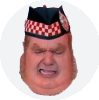
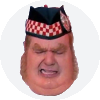
Add hover effect Add winner videos and reset button

diff --git a/index.html b/index.html
@@ -17,72 +17,81 @@
     <title>Old Fat Bastard and the Baby Faces</title>
   </head>
   <body>
-    <div class="container">
+    <div class="container-fluid">
       <div class="row">
         <div class="col-sm-12">
-          <div class="center-block header">
-            <canvas class="col-1 header-token" id="h1"></canvas>
-            <canvas class="col-2 header-token" id="h2"></canvas>
-            <canvas class="col-3 header-token" id="h3"></canvas>
-            <canvas class="col-4 header-token" id="h4"></canvas>
-            <canvas class="col-5 header-token" id="h5"></canvas>
-            <canvas class="col-6 header-token" id="h6"></canvas>
-            <canvas class="col-7 header-token" id="h7"></canvas>
+          <div class="winner center-block">
+            <div class="winner-video"></div>
           </div>
-          <div class="center-block board-wrapper">
-            <div class="board-row board-row1">
-              <canvas class="col-1" id="1"></canvas>
-              <canvas class="col-2" id="2"></canvas>
-              <canvas class="col-3" id="3"></canvas>
-              <canvas class="col-4" id="4"></canvas>
-              <canvas class="col-5" id="5"></canvas>
-              <canvas class="col-6" id="6"></canvas>
-              <canvas class="col-7" id="7"></canvas>
+          <div class="col-sm-1 reset-wrapper">
+            <div class="reset"><button class="btn btn-primary">New Game</button></div>
+            
+          </div>
+          <div class="col-sm-10">
+            <div class="center-block header">
+              <canvas class="col-1 header-token" id="h1"></canvas>
+              <canvas class="col-2 header-token" id="h2"></canvas>
+              <canvas class="col-3 header-token" id="h3"></canvas>
+              <canvas class="col-4 header-token" id="h4"></canvas>
+              <canvas class="col-5 header-token" id="h5"></canvas>
+              <canvas class="col-6 header-token" id="h6"></canvas>
+              <canvas class="col-7 header-token" id="h7"></canvas>
             </div>
-            <div class="board-row board-row2">
-              <canvas class="col-1" id="8"></canvas>
-              <canvas class="col-2" id="9"></canvas>
-              <canvas class="col-3" id="10"></canvas>
-              <canvas class="col-4" id="11"></canvas>
-              <canvas class="col-5" id="12"></canvas>
-              <canvas class="col-6" id="13"></canvas>
-              <canvas class="col-7" id="14"></canvas>
-            </div>
-            <div class="board-row board-row3">
-              <canvas class="col-1" id="15"></canvas>
-              <canvas class="col-2" id="16"></canvas>
-              <canvas class="col-3" id="17"></canvas>
-              <canvas class="col-4" id="18"></canvas>
-              <canvas class="col-5" id="19"></canvas>
-              <canvas class="col-6" id="20"></canvas>
-              <canvas class="col-7" id="21"></canvas>
-            </div>
-            <div class="board-row board-row4">
-              <canvas class="col-1" id="22"></canvas>
-              <canvas class="col-2" id="23"></canvas>
-              <canvas class="col-3" id="24"></canvas>
-              <canvas class="col-4" id="25"></canvas>
-              <canvas class="col-5" id="26"></canvas>
-              <canvas class="col-6" id="27"></canvas>
-              <canvas class="col-7" id="28"></canvas>
-            </div>
-            <div class="board-row board-row5">
-              <canvas class="col-1" id="29"></canvas>
-              <canvas class="col-2" id="30"></canvas>
-              <canvas class="col-3" id="31"></canvas>
-              <canvas class="col-4" id="32"></canvas>
-              <canvas class="col-5" id="33"></canvas>
-              <canvas class="col-6" id="34"></canvas>
-              <canvas class="col-7" id="35"></canvas>
-            </div>
-            <div class="board-row board-row6">
-              <canvas class="col-1 can-place" id="36"></canvas>
-              <canvas class="col-2 can-place" id="37"></canvas>
-              <canvas class="col-3 can-place" id="38"></canvas>
-              <canvas class="col-4 can-place" id="39"></canvas>
-              <canvas class="col-5 can-place" id="40"></canvas>
-              <canvas class="col-6 can-place" id="41"></canvas>
-              <canvas class="col-7 can-place" id="42"></canvas>
+            <div class="center-block board-wrapper">
+              <div class="board-row board-row1">
+                <canvas class="col-1" id="1"></canvas>
+                <canvas class="col-2" id="2"></canvas>
+                <canvas class="col-3" id="3"></canvas>
+                <canvas class="col-4" id="4"></canvas>
+                <canvas class="col-5" id="5"></canvas>
+                <canvas class="col-6" id="6"></canvas>
+                <canvas class="col-7" id="7"></canvas>
+              </div>
+              <div class="board-row board-row2">
+                <canvas class="col-1" id="8"></canvas>
+                <canvas class="col-2" id="9"></canvas>
+                <canvas class="col-3" id="10"></canvas>
+                <canvas class="col-4" id="11"></canvas>
+                <canvas class="col-5" id="12"></canvas>
+                <canvas class="col-6" id="13"></canvas>
+                <canvas class="col-7" id="14"></canvas>
+              </div>
+              <div class="board-row board-row3">
+                <canvas class="col-1" id="15"></canvas>
+                <canvas class="col-2" id="16"></canvas>
+                <canvas class="col-3" id="17"></canvas>
+                <canvas class="col-4" id="18"></canvas>
+                <canvas class="col-5" id="19"></canvas>
+                <canvas class="col-6" id="20"></canvas>
+                <canvas class="col-7" id="21"></canvas>
+              </div>
+              <div class="board-row board-row4">
+                <canvas class="col-1" id="22"></canvas>
+                <canvas class="col-2" id="23"></canvas>
+                <canvas class="col-3" id="24"></canvas>
+                <canvas class="col-4" id="25"></canvas>
+                <canvas class="col-5" id="26"></canvas>
+                <canvas class="col-6" id="27"></canvas>
+                <canvas class="col-7" id="28"></canvas>
+              </div>
+              <div class="board-row board-row5">
+                <canvas class="col-1" id="29"></canvas>
+                <canvas class="col-2" id="30"></canvas>
+                <canvas class="col-3" id="31"></canvas>
+                <canvas class="col-4" id="32"></canvas>
+                <canvas class="col-5" id="33"></canvas>
+                <canvas class="col-6" id="34"></canvas>
+                <canvas class="col-7" id="35"></canvas>
+              </div>
+              <div class="board-row board-row6">
+                <canvas class="col-1 can-place" id="36"></canvas>
+                <canvas class="col-2 can-place" id="37"></canvas>
+                <canvas class="col-3 can-place" id="38"></canvas>
+                <canvas class="col-4 can-place" id="39"></canvas>
+                <canvas class="col-5 can-place" id="40"></canvas>
+                <canvas class="col-6 can-place" id="41"></canvas>
+                <canvas class="col-7 can-place" id="42"></canvas>
+              </div>
             </div>
           </div>
         </div>

diff --git a/js/oldFatBastard.js b/js/oldFatBastard.js
@@ -2,15 +2,63 @@ var dropPiece = function(column) {
   var columnNumber = 'col-'+(column);
   console.log(columnNumber);
   if (player % 2) {
+    fatBastard();
     var position = $('.can-place.'+(columnNumber)).attr('id') - 7;
     $('.can-place.' + (columnNumber)).css('background-image', 'url(imgs/baby.png)').removeClass('can-place');
     $('#'+(position)).addClass('can-place')
     console.log($('#'+(position)));
   } else {
+    baby();
     var position = $('.can-place.'+(columnNumber)).attr('id') - 7;
     $('.can-place.' + (columnNumber)).css('background-image', 'url(imgs/fat-bastard.png)').removeClass('can-place');
     $('#'+(position)).addClass('can-place')
     console.log($('#'+(position)));
 
   }
+}
+
+var baby = function() {
+  $('.header-token').hover(function() {
+      $(this).css('background-image', 'url(imgs/baby.png)');
+    }, function() {
+      $(this).css('background', '#FFF');
+  }).click(function() {
+    $(this).css('background', '#FFF');
+  });
+}
+
+var fatBastard = function() {
+  $('.header-token').hover(function() {
+      $(this).css('background-image', 'url(imgs/fat-bastard.png)');
+    }, function() {
+      $(this).css('background', '#FFF');
+  }).click(function() {
+    $(this).css('background', '#FFF');
+  });
+}
+
+var fatBastardWins = function() {
+  $('.winner').prepend('<h1>Old Fat Bastard Wins!</h1>');
+  $('.winner').append('<iframe style="position: absolute; top: 175px; left: 20%;" width="853" height="480" src="http://www.youtube.com/embed/LXekH_8vXnM?rel=0&amp;controls=0&amp;showinfo=0&amp;autoplay=1;" frameborder="0" allowfullscreen></iframe>');
+  setTimeout(function() {
+    $('.winner').fadeOut('slow');
+    $('.board-wrapper').show();
+    $('.reset').show();
+  }, 10000);
+  setTimeout(function() {
+    $('.winner').find('iframe').remove();
+  }, 10000);
+}
+
+var babyWins = function() {
+  $('.winner').fadeIn('slow').prepend('<h1 class="baby">Baby Wins!</h1>');
+  $('.winner').append('<iframe style="position: absolute; top: 175px; left: 20%;" src="https://player.vimeo.com/video/158847086?title=0&byline=0&portrait=0&amp;autoplay=1;" width="853" height="479" frameborder="0" webkitallowfullscreen mozallowfullscreen allowfullscreen></iframe>');
+  setTimeout(function() {
+    $('.winner').fadeOut('slow');
+    $('.board-wrapper').show();
+    $('.reset').show();
+  }, 17000);
+  setTimeout(function() {
+    $('.winner').find('iframe').remove();
+  }, 17000);
 }

diff --git a/js/controller.js b/js/controller.js
@@ -10,12 +10,24 @@ var board = [
 
 player = 1
 
+// $('.button-color-2').hover(function() {
+// dosmth();
+// $(this).unbind('mouseenter mouseleave')
+// });
+
 $(document).ready(function(){
+
+  // baby(function() {
+  //   $(this).unbind('mouseenter mouseleave')
+  // })
+
+  $('.header-token').one('hover', baby());
 
   $('#h1').on('click', function(){
    dropPiece(1);
    addColor(0);
  })
+
   $('#h2').on('click', function(){
    dropPiece(2);
    addColor(1);
@@ -37,9 +49,13 @@ $(document).ready(function(){
    addColor(5);
  })
   $('#h7').on('click', function(){
-   dropPiece(7);
+   dropPiece(7, player);
    addColor(6);
  })
+
+  $('button').on('click', function() {
+    location.reload(true);
+  })
 
 })
 
@@ -57,16 +73,24 @@ var addColor = function(number) {
       console.log("column: " + number);
       console.log("row: " + counter);
       i=true;
-      player += 1;};
+      player += 1;
+      };
       var isVic = isVictory(board, number, counter);
       counter++;
       if(counter === 6){i = true;};
     }while (i != true)
     console.log('**********')
     board.forEach(printEach);
-    if (isVic == true) { alert(letter + " Win!") };
+    if (isVic == true) { 
+      $('.board-wrapper').hide();
+      $('.winner').show().css('height', '800px');
+      if (player % 2) {
+        fatBastardWins();
+      } else {
+        babyWins();
+      }
+    };
   }
-
 
 var switchPlayer = function() {
   if (player % 2) {

diff --git a/css/application.css b/css/application.css
@@ -13,11 +13,17 @@
   background-color: #ffffff;
   border-radius: 50%;
   margin: 0 auto;
+  -webkit-box-shadow: none;
+  -moz-box-shadow: none;
+  box-shadow: none;
 }
 
 .board-wrapper {
   width: 770px;
   background-color: yellow;
+  -webkit-box-shadow: 0 5px 2px #000;
+  -moz-box-shadow: 0 0 2px #000;
+  box-shadow: 0 0 2px #000;
 }
 
 .board-row1 {
@@ -37,4 +43,44 @@ canvas {
   background-color: #ffffff;
   border-radius: 50%;
   margin: 0 auto;
+  -webkit-box-shadow: 0 0 3px #000;
+  -moz-box-shadow: 0 0 3px #000;
+  box-shadow: 0 0 3px #000;
 }
+
+.winner {
+  display: none;
+  position: relative;
+  width: 100%;
+  background-color: #000000;
+}
+
+.winner h1 {
+  position: absolute;
+  top: 20px;
+  left: 10%;
+  font-size: 8em;
+  color: red;
+  text-align: center;
+  font-weight: bold;
+}
+
+.reset-wrapper {
+  position: relative;
+}
+
+.reset {
+  display: none;
+  position: absolute;
+  margin-top: 175px;
+  left: 80px;
+  z-index: 1;
+}
+
+.winner h1.baby {
+  left: 30%;
+}
+
+/*.reset button {
+  margin-left: 80px;
+}*/
